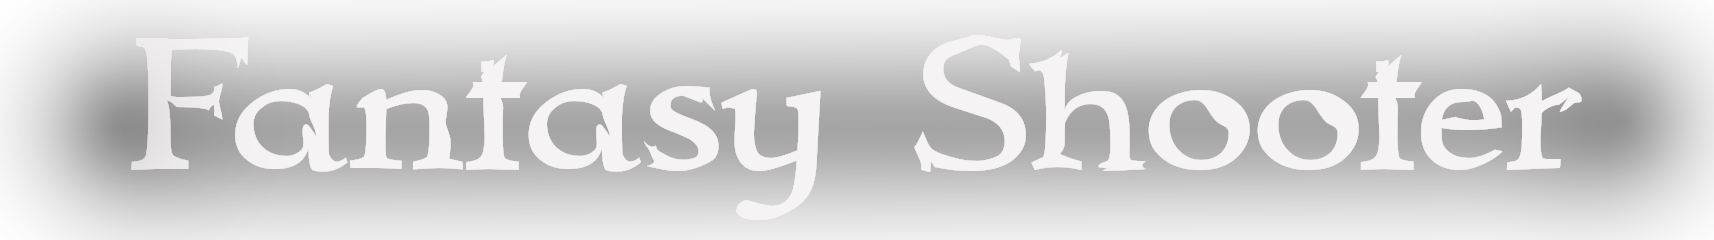
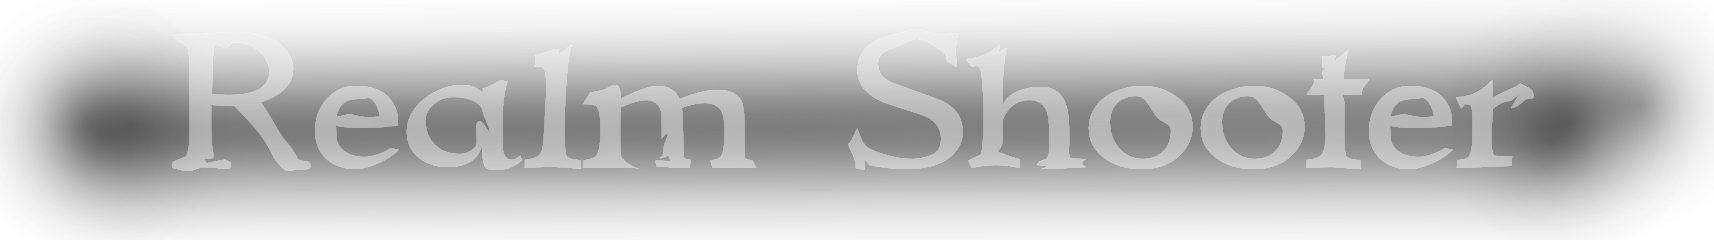
Updated to v0.8.b

Changed region(s): [[0.0, 0.175, 0.9586, 0.875]]

diff --git a/index.html b/index.html
@@ -5,7 +5,7 @@
     <meta http-equiv="X-UA-Compatible" content="IE=edge">
     <meta name="viewport" content="width=device-width, initial-scale=1.0">
     
-    <title>Fantasy Shooter</title>
+    <title>Realm Shooter</title>
     <link href="favicon.ico" rel="icon" type="image/x-icon">
     
 
